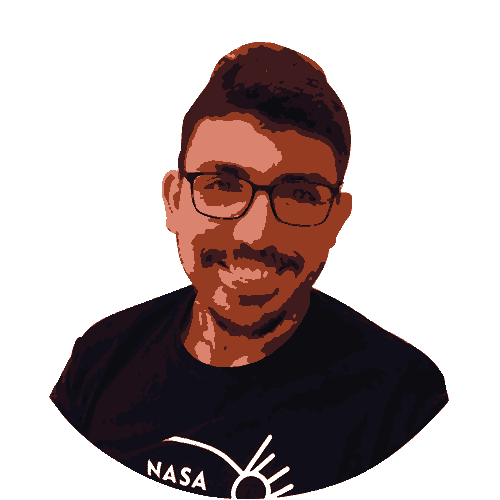
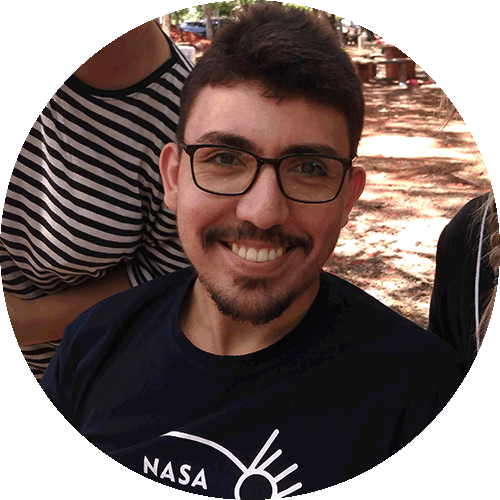
Color modificate

diff --git a/src/screens/About.js b/src/screens/About.js
@@ -1,10 +1,38 @@
 import React, { Component } from 'react';
 
+import '../css/About.css';
+import photo from '../images/photo.png';
+
 class About extends Component {
   render() {
     return (
-      <div style={{backgroundColor: '#000000', width: '500px', height: '500px'}}>
-        <p>TESTAAAAAAAAAAAAAAANDO</p>
+      <div className="Container">
+       <header className="Header">
+         <div className="Main-header">
+           <img className="Photo" src={photo}/>
+           <div className="Text-header">
+            <p>Olá, eu me chamo</p>
+            <p>
+              <h1>Dionei</h1>
+            </p>
+            <p>
+              <h1>Bianchati.</h1>
+            </p>
+           </div>
+         </div>
+         <div className="Social-header">
+          <div className="Title-area">
+            <div className="Line-area">
+              <div className="Line-text">
+                <p>Social</p>
+              </div>
+            </div>
+          </div>
+          <div className="Icons-area">
+
+          </div>
+         </div> 
+       </header>
       </div>
     );
   }

diff --git a/src/screens/Home.js b/src/screens/Home.js
@@ -1,4 +1,5 @@
 import React, { Component } from 'react';
+import { Link } from 'react-router-dom';
 import { 
   FaLinkedinIn,
   FaGithubAlt  
@@ -14,7 +15,7 @@ import {
   rightOffAnimation,
 } from '../js/AnimationHome';
 import { onDarkTheme, offDarkTheme } from '../js/DarkTheme';
-import '../App.css';
+import '../css/Home.css';
 
 class Home extends Component {
   render() {
@@ -30,8 +31,10 @@ class Home extends Component {
               onMouseEnter={leftOnAnimation}
               onMouseLeave={leftOffAnimation}
             >
-              <MdMore id="More-left" className="More-left"/>
-              <MdMore id="More-left-dark" className="More-left-dark"/>
+              <Link to="/about">
+                <MdMore id="More-left" className="More-left"/>
+                <MdMore id="More-left-dark" className="More-left-dark"/>
+                </Link>
             </div>
             <div id="Text-left" className="Text-container">
               <p>Olá, eu me chamo</p>

diff --git a/src/css/About.css b/src/css/About.css
@@ -1,0 +1,54 @@
+@import url('https://fonts.googleapis.com/css2?family=Zilla+Slab:wght@300&display=swap');
+
+.Container {
+  width: 100%;
+}
+.Header {
+  display: flex;
+  flex-direction: column;
+  align-items: center;
+  margin: 50px;
+}
+.Main-header {
+  display: flex;
+  flex-direction: row;
+  align-items: center;
+}
+.Text-header {
+  font-family: 'Zilla Slab', serif;
+  margin: 20px;
+  white-space: nowrap;
+  color: #282c34;
+}
+.Text-header  h1 {
+  font-size: 100px;
+  font-weight: bold;
+  line-height: 80px;
+  margin: 10px;
+}
+.Text-header  p, h3 {
+  font-size: 50px;
+  font-weight: normal;
+  margin: 10px;
+}
+.Photo {
+  width: 230px;
+  height: 230px;
+}
+.Social-header {
+  display: flex;
+  flex-direction: column;
+  margin-top: 20px;
+}
+.Line-area {
+  display: flex;
+  justify-content: center;
+  align-items: center;
+  width: 500px;
+  height: 1px;
+  background-color: #282c34;
+}
+.Line-text {
+  background-color: #fff;
+  padding: 10px;  
+}

diff --git a/src/css/Home.css b/src/css/Home.css
@@ -54,7 +54,7 @@ body {
   flex-direction: column;
   justify-content: center;
   width: 50%;
-  background-color: #ececec;
+  background-color: #ffffff;
   color: #282c34; 
 }
 .Left h1 {
@@ -70,7 +70,7 @@ body {
 }
 .Linkedin-icon-dark {
   display: none;
-  color: #ececec;
+  color: #ECECEC;
 }
 
 /*Left animation*/
@@ -78,13 +78,6 @@ body {
   position: absolute;
   height: 450px;
   width: 350px;
-}
-.Photo {
-  position: absolute;
-  margin-top: 30%;
-  margin-left: -150%;
-  width: 250px;
-  height: 250px;
 }
 .More-left {
   display: block;
@@ -109,7 +102,7 @@ body {
   opacity: 0;
   width: 40px;
   height: 40px;
-  color: #ececec;
+  color: #ECECEC;
 }
 .More-left-dark:hover {
   color: #61DAFB;
@@ -123,7 +116,7 @@ body {
   justify-content: center;
   width: 50%;
   background-color: #282c34;
-  color: #ececec;
+  color: #ECECEC;
 }
 .Dark-mode-icon {
   width: 30px;

diff --git a/src/js/DarkTheme.js b/src/js/DarkTheme.js
@@ -1,6 +1,7 @@
 export function onDarkTheme() {
   document.getElementById("Left").style.backgroundColor = '#20232A';
   document.getElementById("Text-left").style.color = '#ECECEC';
+  document.getElementById("Text-right").style.color = '#ECECEC';
   document.getElementById("Left").style.transitionDuration = '1s';
   document.getElementById("Dark-on").style.display = 'none';
   document.getElementById("Dark-off").style.display = 'block'; 
@@ -11,7 +12,7 @@ export function onDarkTheme() {
 }
 
 export function offDarkTheme() {
-  document.getElementById("Left").style.backgroundColor = '#ECECEC';
+  document.getElementById("Left").style.backgroundColor = '#FFFFFF';
   document.getElementById("Text-left").style.color = '#282c34';
   document.getElementById("Left").style.transitionDuration = '1s';
   document.getElementById("Dark-on").style.display = 'block';

diff --git a/src/js/AnimationHome.js b/src/js/AnimationHome.js
@@ -51,7 +51,9 @@ export function rightOnAnimation() {
   document.getElementById("Left").style.zIndex = '1';
   document.getElementById("Right").style.zIndex = '2';
   document.getElementById("Github").style.opacity = '0';
+  document.getElementById("Github").style.transitionDuration = '1s';
   document.getElementById("Linkedin").style.opacity = '0';
+  document.getElementById("Linkedin").style.transitionDuration = '1s';
 }
 export function rightOffAnimation() {
   document.getElementById("More-right").style.opacity = '0';
